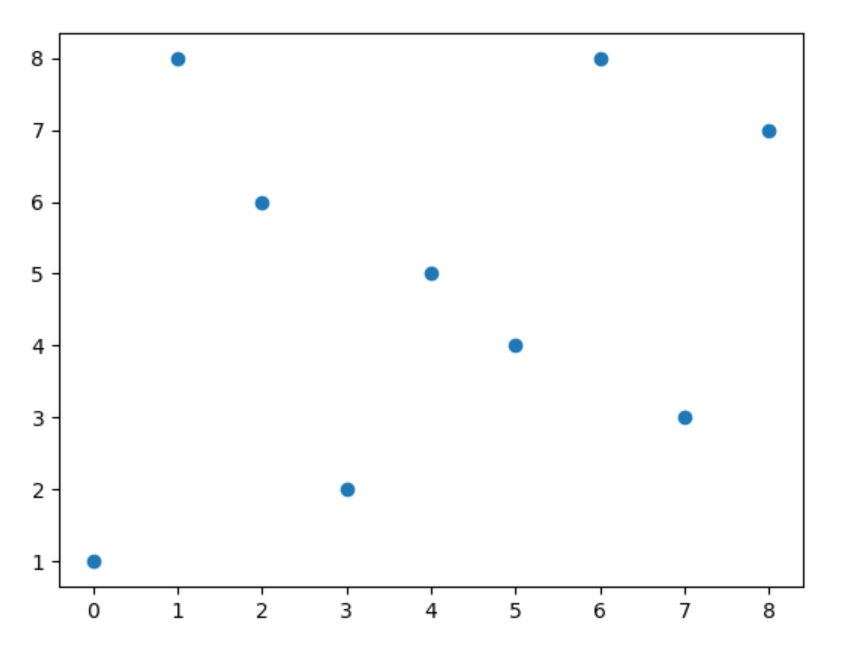
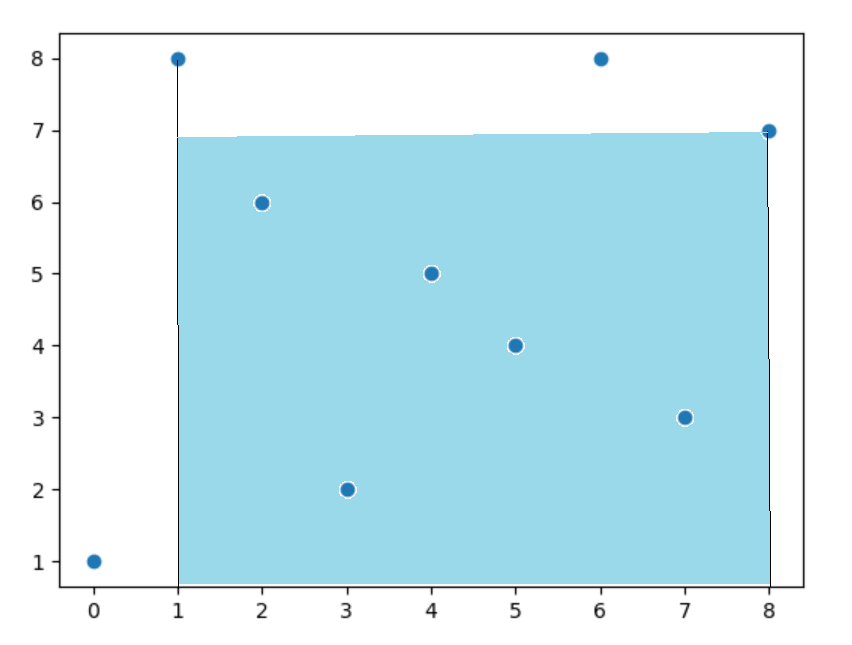
maxArea forrest solution

diff --git a/MoveZeroes.java b/MoveZeroes.java
@@ -13,7 +13,7 @@ import java.util.function.*;;
 // You must do this in-place without making a copy of the array.
 // Minimize the total number of operations.
 
-class Program {
+class MoveZeroes {
     public static void main(String[] args) {
         int start = 5;
         double percentIncrease = 1.00;
@@ -39,21 +39,21 @@ class Program {
 
         int[] arrCopy = CopyArray(arr);
         String label = "Forrest 1";
-        long elapsed = Time(Program::ForrestSolution, arrCopy);
+        long elapsed = Time(MoveZeroes::ForrestSolution, arrCopy);
         System.out.println(label + ": " + elapsed + " milliseconds");
         if (printResult)
             System.out.println(Arrays.toString(arrCopy));
 
         arrCopy = CopyArray(arr);
         label = "Forrest 2";
-        elapsed = Time(Program::ForrestSolution2, arrCopy);
+        elapsed = Time(MoveZeroes::ForrestSolution2, arrCopy);
         System.out.println(label + ": " + elapsed + " milliseconds");
         if (printResult)
             System.out.println(Arrays.toString(arrCopy));
 
         arrCopy = CopyArray(arr);
         label = "Kevin";
-        elapsed = Time(Program::KevinSolution, arrCopy);
+        elapsed = Time(MoveZeroes::KevinSolution, arrCopy);
         KevinSolution(arrCopy);
         System.out.println(label + ": " + elapsed + " milliseconds");
         if (printResult)

diff --git a/WaterContainer.java b/WaterContainer.java
@@ -20,7 +20,18 @@ class Program {
     }
 
     public static int maxAreaForrest(int[] height){
-        return -1;
+        int length = height.length;
+        int max = 0;
+        for(int i = 0; i < length; i++){
+            for(int i2 = 0; i2 < length; i2++){
+                int minHeight = Math.min(height[i], height[i2]);
+                int area = minHeight * (i2 - i);
+                if (area > max){
+                    max = area;
+                }
+            }
+        }
+        return max;
     }
 
     public static int maxAreaKevin(int[] height){

diff --git a/MaximumSubarray.java b/MaximumSubarray.java
@@ -12,7 +12,7 @@
 // try coding another solution using the divide and conquer approach,
 // which is more subtle.
 
-class Program {
+class MaximumSubarray{
     public static void main(String[] args) {
         int[] array = new int[]{-2, 1, -3, 4, -1, 2, 1, -5, 4};
         System.out.println("Forrest: " + ForrestSolution(array));

diff --git a/Template.java b/Template.java
@@ -1,4 +1,4 @@
-class Program {
+class ProgramTemplate {
     public static void main(String[] args) {
     }
 }
